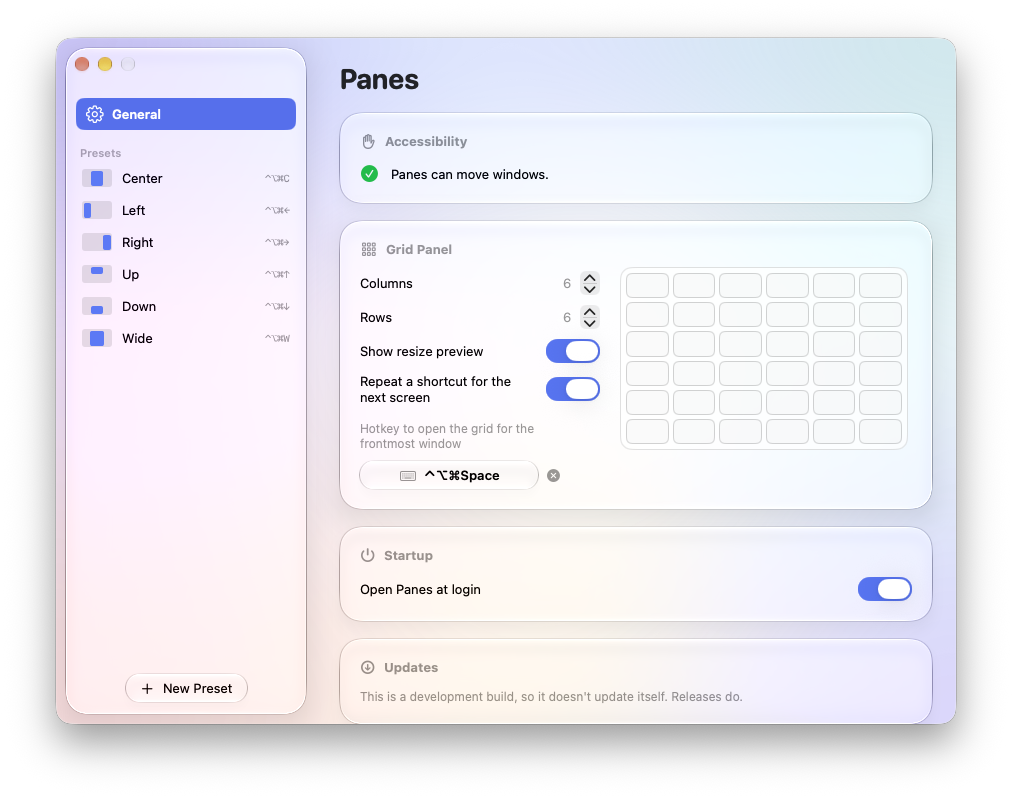
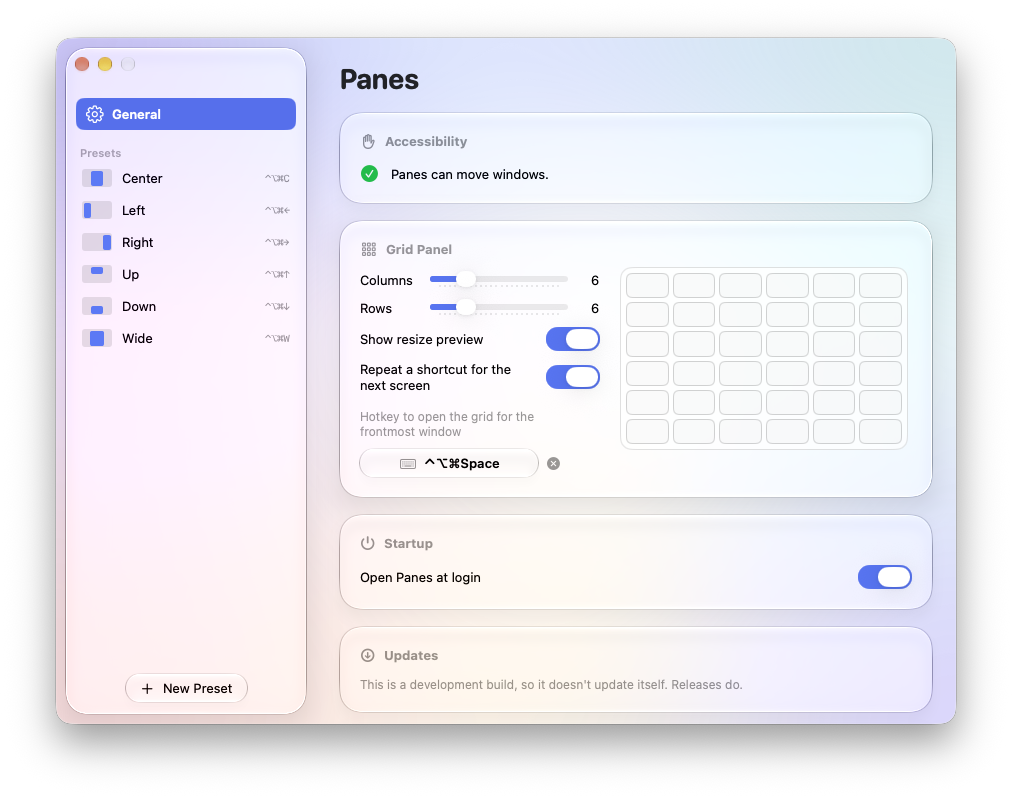
Set grid columns and rows with sliders
Settings → General and the preset editor used up/down arrows for the grid size. A slider reaches
any size from 1 to 24 in one drag and moves in whole steps only, so a preset rescales its area once
per count. The settings screenshots show the new controls.

diff --git a/Sources/Panes/UI/SettingsView.swift b/Sources/Panes/UI/SettingsView.swift
@@ -179,20 +179,14 @@ struct PresetEditor: View {
                     .frame(maxWidth: .infinity)
 
                     HStack(spacing: 24) {
-                        Stepper(value: gridBinding(\.columns), in: Config.gridSizeRange) {
-                            LabeledContent("Columns", value: "\(preset.area.columns)")
-                        }
-                        Stepper(value: gridBinding(\.rows), in: Config.gridSizeRange) {
-                            LabeledContent("Rows", value: "\(preset.area.rows)")
-                        }
-                        Spacer()
-                        Text(percentages.size)
-                            .font(.callout.monospacedDigit())
-                            .foregroundStyle(.secondary)
-                            .lineLimit(1)
-                            .help(percentages.position)
+                        GridSizeSlider(title: "Columns", value: gridBinding(\.columns))
+                        GridSizeSlider(title: "Rows", value: gridBinding(\.rows))
                     }
-                    .fixedSize(horizontal: false, vertical: true)
+                    Text(percentages.size)
+                        .font(.callout.monospacedDigit())
+                        .foregroundStyle(.secondary)
+                        .lineLimit(1)
+                        .help(percentages.position)
                 }
 
                 GlassCard(title: "Shortcut", systemImage: "keyboard") {
@@ -272,12 +266,8 @@ struct GeneralPane: View {
                 GlassCard(title: "Grid Panel", systemImage: "square.grid.3x3") {
                     HStack(alignment: .top, spacing: 24) {
                         VStack(alignment: .leading, spacing: 10) {
-                            Stepper(value: $store.config.grid.columns, in: Config.gridSizeRange) {
-                                LabeledContent("Columns", value: "\(store.config.grid.columns)")
-                            }
-                            Stepper(value: $store.config.grid.rows, in: Config.gridSizeRange) {
-                                LabeledContent("Rows", value: "\(store.config.grid.rows)")
-                            }
+                            GridSizeSlider(title: "Columns", value: $store.config.grid.columns)
+                            GridSizeSlider(title: "Rows", value: $store.config.grid.rows)
                             Toggle("Show resize preview", isOn: $store.config.showResizePreview)
                                 .toggleStyle(.trailingSwitch)
                                 .help("While you drag across the grid or hover a preset, outline where the window will land.")
@@ -453,6 +443,43 @@ struct UpdatesCard: View {
                 ProgressView().controlSize(.small)
                 Text("Downloading and checking Panes \(release.version.description)…").foregroundStyle(.secondary)
             }
+        }
+    }
+}
+
+// MARK: - Controls
+
+/// A grid's column or row count, as a slider over `Config.gridSizeRange` with the count at its end.
+struct GridSizeSlider: View {
+    let title: String
+    @Binding var value: Int
+
+    private static let range = Double(Config.gridSizeRange.lowerBound)...Double(Config.gridSizeRange.upperBound)
+
+    var body: some View {
+        HStack(spacing: 10) {
+            Text(title)
+                // The same width for both, so stacked sliders line up.
+                .frame(width: 60, alignment: .leading)
+                .accessibilityHidden(true)
+            Slider(value: steps, in: Self.range, step: 1) { Text(title) }
+                .labelsHidden()
+                .accessibilityValue("\(value)")
+            Text("\(value)")
+                .monospacedDigit()
+                .frame(width: 22, alignment: .trailing)
+                .accessibilityHidden(true)
+        }
+    }
+
+    /// Only whole steps reach `value`: a preset rescales its area on every change, so a drag
+    /// sends one change per count rather than one per pointer move.
+    private var steps: Binding<Double> {
+        Binding {
+            Double(value)
+        } set: { newValue in
+            let count = Int(newValue.rounded())
+            if count != value { value = count }
         }
     }
 }

diff --git a/Sources/Panes/UI/Glass.swift b/Sources/Panes/UI/Glass.swift
@@ -56,7 +56,7 @@ struct IssueLabel: View {
     }
 }
 
-/// A switch at the trailing edge, so switches line up with each other and with the steppers above
+/// A switch at the trailing edge, so switches line up with each other and with the sliders above
 /// them instead of following their labels.
 struct TrailingSwitchToggleStyle: ToggleStyle {
     func makeBody(configuration: Configuration) -> some View {

diff --git a/CHANGELOG.md b/CHANGELOG.md
@@ -6,6 +6,11 @@ All notable changes to Panes are listed here. The format follows
 
 ## [Unreleased]
 
+### Changed
+
+- Columns and rows are set with sliders instead of up/down arrows, in Settings → General and in the
+  preset editor.
+
 ## [1.3.1] - 2026-10-15
 
 ### Fixed
